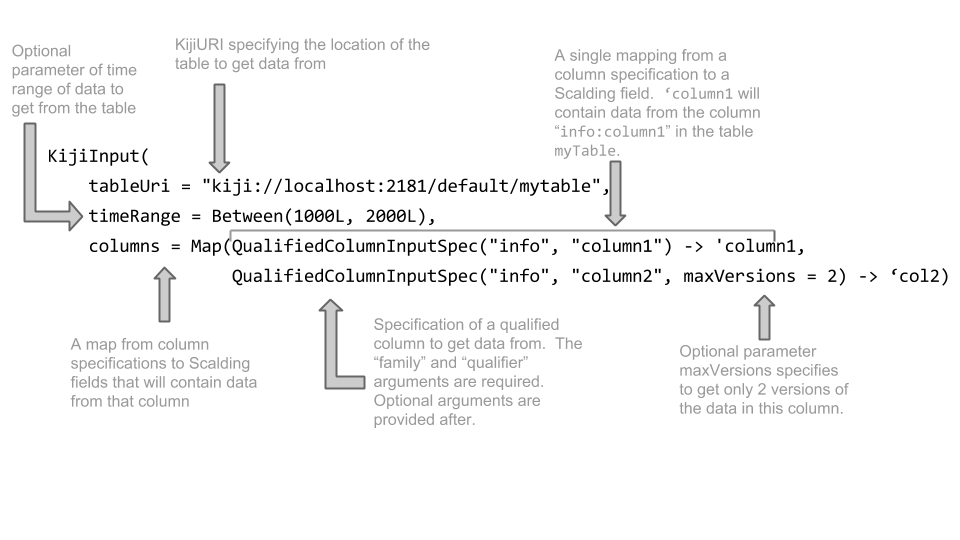
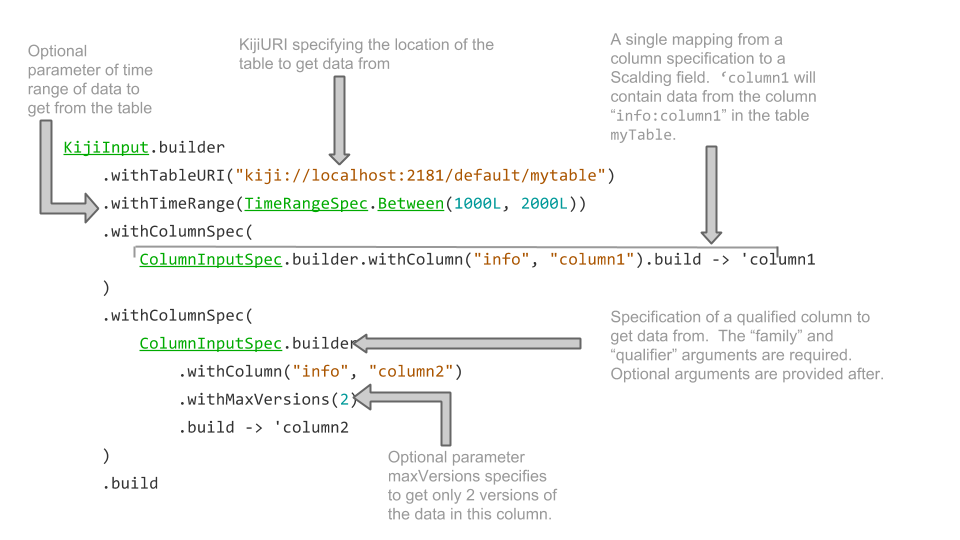
EXP-402. Update user guide and tutorial to reflect Builder APIs.
issue: https://jira.kiji.org/browse/EXP-402
review: https://review.kiji.org/r/1568
commit: https://github.com/kijiproject/kijiproject.github.com/commit/97b3bb55221034efbc58e38f614e003e16d13a4c

Changed region(s): [[0.0, 0.0593, 0.9375, 0.9778], [0.0938, 0.8889, 0.1875, 0.9185], [0.9375, 0.5037, 1.0, 0.5333]]

diff --git a/kijiproject.github.com/_posts/userguides/express/DEVEL/2013-11-14-kiji-sources.md b/kijiproject.github.com/_posts/userguides/express/DEVEL/2013-11-14-kiji-sources.md
@@ -18,7 +18,6 @@ Contents:
 * [KijiInput](#kijiinput) is for reading from a Kiji table.
 * [KijiOutput](#kijioutput) is for writing to a Kiji table.
 * [HFileKijiOutput](#hfilekijioutput) is for writing to HFiles that will be bulk-loaded into Kiji.
-  It must be used in conjunction with `HFileKijiJob` instead of `KijiJob`.
 
 ## KijiInput
 
@@ -67,7 +66,7 @@ post](http://www.kiji.org/2013/02/13/common-pitfalls-of-timestamps-in-hbase/).
 You can specify an optional time range, or range of versions, on a **KijiInput**.  (Note that the
 time range is applied to the entire input request and not a single column. You can further control
 how many versions of an individual column are returned by using `maxVersions` described further
-ahead.).  This time range that limits the data returned from all the columns you request to that
+ahead.).  This time range limits the data returned from all the columns you request to that
 time range.  The default time range is `All`, which imposes no limits on the data from the columns
 of the table.
 
@@ -81,16 +80,24 @@ Here are the provided constructors for a TimeRange:
 The time range is an optional parameter to KijiInput, so your construction will look something like
 what follows:
 
-    KijiInput(tableUri = “kiji://localhost:2181/default/users”,
-        timeRange =Before(1000L),
-        Map(
-            QualifiedColumnInputSpec(“userinfo:email”, maxVersions = 2) -> ‘email,
-            ColumnFamilyInputSpec(“purchases”, maxVersions = all) -> ‘purchases))
+    KijiInput.builder
+        .withTableURI("kiji://localhost:2181/default/users")
+        .withTimeRange(Before(1000L))
+        .withColumnSpecs(
+            QualifiedColumnInputSpec.builder
+                .withColumn("userinfo", "email")
+                .withMaxVersions(2)
+                .build-> 'email,
+            ColumnFamilyInputSpec.builder
+                .withFamily("purchases")
+                .withMaxVersions(all)
+                .build-> 'purchases)
+        .build
 
 Note that this means the `’email` field will contain only the data in the `userinfo:email` column
 that has version numbers before 1000L.  Since we only requested a maximum of 2 versions of that column,
 this means we get the most recent 2 versions of the user’s email before version 1000, even if there are
-more after version 1000.  This also means the `’purchases` field contains all the purchases that fall
+more after version 1000.  This also means the `'purchases` field contains all the purchases that fall
 within the specified `timeRange` for this `KijiInput`, not all purchases that are in the users
 table.
 
@@ -100,10 +107,12 @@ table.
 constructor function. This map defines the Kiji columns that will be read into specific fields of
 the flow.
 
-The simplest KijiInput syntax looks like this:
+An exmaple KijiInput syntax looks like this:
 
-    KijiInput(tableUri = "kiji://localhost:2181/default/users",
-        "info:name" -> 'name, "purchases" -> 'purchases)
+    KijiInput.builder
+        .withTableURI("kiji://localhost:2181/default/users")
+        .withColumns("info:name" -> 'name, "purchases" -> 'purchases)
+        .build
 
 This constructs a KijiInput that reads from the specified table, the specified columns "info:name"
 and "purchases" and puts the contents of those columns into the fields `'name` and `'purchases`
@@ -112,9 +121,16 @@ respectively.
 However, to specify further options on the columns that you request data from, you must use the
 following syntax:
 
-    KijiInput(tableUri = "kiji://localhost:2181/default/users",
-        Map(QualifiedColumnInputSpec("info", "name") -> 'name,
-            ColumnFamilyInputSpec("purchases") -> 'purchases))
+    KijiInput.builder
+        .withTableURI("kiji://localhost:2181/default/users")
+        .withColumnSpecs(
+            QualifiedColumnInputSpec.builder
+                .withColumn("info", "name")
+                .build -> 'name,
+            ColumnFamilyInputSpec.builder
+                .withFamily("purchases")
+                .build -> 'purchases)
+        .build
 
 `QualifiedColumnInputSpec` is used to specify a single Kiji column should
 be read into a single field in each tuple.  `ColumnFamilyInputSpec` is used to specify an entire
@@ -127,8 +143,8 @@ filters, paging, and schema.
 #### maxVersions
 
     import org.kiji.express.flow
-    maxVersions = 2
-    maxVersions = all
+    builder.withMaxVersions(2)
+    otherBuilder.withMaxVersions(all)
 
 `maxVersions` is an Integer specifying the number of versions of this column to be in the tuple.  By
   default, this is 1, so you will only get the latest version within the time range of the entire
@@ -136,7 +152,7 @@ KijiInput request.
 
 #### schemaSpec
 
-This specifies the Avro schema to read the data in this column with.  For more information about Avro schemas, see the [KijiSchema userguide]({{site.userguide_schema_devel}}/managing-data) section on Schema evolution.
+This specifies the Avro schema with which to read the data in this column.  For more information about Avro schemas, see the [KijiSchema userguide]({{site.userguide_schema_devel}}/managing-data) section on Schema evolution.
 Here are the options:
 
 * `SchemaSpec.Specific(classOf[MySpecificRecordClass])`: used when you have a specific class
@@ -176,7 +192,7 @@ minimumIncluded = true)` to specify columns with qualifiers “m” and later.
 
 ##### paging
 
-    paging = PagingSpec.Cells(10)
+    builder.withPagingSpec(PagingSpec.Cells(10))
 
 Specifies the number of cells per page.  By default, `paging = PagingSpec.Off`, which disables
 paging.  With paging disabled, all cells from the specified column will be loaded into memory at
@@ -263,10 +279,12 @@ In this simplest case, this may be specified as a mapping from the field name in
 fully qualified column name of the table.
 
 {% highlight scala %}
-   KijiOutput(
-       tableUri = "kiji://localhost:2181/default/mytable",
-       'column1 -> "info:column1",
-       'column2 -> "info:column2")
+    KijiOutput.builder
+        .withTableURI("kiji://localhost:2181/default/mytable")
+        .withColumns(
+            'column1 -> "info:column1",
+            'column2 -> "info:column2"
+        ).build
 {% endhighlight %}
 
 As with KijiInput, we have provided syntactic sugar for the most common case of writing a field to a
@@ -310,7 +328,6 @@ The SchemaSpec is specified in much that same way as for KijiInput, which is des
 The `HFileKijiSource` is a special write-only source that allows for the contents of a pipe to be
 written to HFiles for later bulk loading into HBase. From an API perspective, writing a Scalding job
 that writes to HFiles is as simple as:
-* Extending `HFileKijiJob` instead of `KijiJob`.
 * Writing to `HFileKijiOutput` instead of `KijiOutput`.  They are the same except `HFileKijiOutput`
   requires a `hFileOutput` parameter that specifies where the HFiles are output by the job.
 
@@ -319,37 +336,15 @@ that writes to HFiles is as simple as:
          // `'timestamps` field and writing the fields `'column1` and `'column2` to the columns
          // `info:column1` and `info:column2`. The resulting HFiles will be written to the "my_hfiles"
          // folder.
-         HFileKijiOutput(
-            tableUri = "kiji://localhost:2181/default/mytable",
-            hFileOutput = "my_hfiles",
-            timestampField = 'timestamps,
+    HFileKijiOutput.builder
+        .withTableURI("kiji://localhost:2181/default/mytable")
+        .withHFileOutput("my_hfiles")
+        .withTimestampField('timestamps)
+        .withColumns(
             'column1 -> "info:column1",
-            'column2 -> "info:column2")
+            'column2 -> "info:column2"
+        ).build
 {% endhighlight %}
 
-* Specifying `--output` and `--hfile-output` arguments on the command line when running the
-  KijiExpress job. `--output` refers to the Kiji table where the data will eventually be loaded and
-`--hfile-output` refers to the location on HDFS where the HFiles to be loaded are written.
-
-Please note; however, that due to the limitations around this implementation of writing to HFiles,
-that only one Scalding pipe can write to an `HFileKijiSource`.
-
-### Implementation Notes
-Please note that unlike other KijiExpress jobs that extend from `KijiJob`, when generating HFiles,
-your job must extend `HFileKijiJob` *and* only one pipe can write to an `HFileKijiOutput`. The
-reasons for these limitations are as follows:
-
-* When writing to HFiles, normally the `IdentityReducer` is used along with the
-  `TotalOrderPartitioner` so that keys emitted from the Map phase are shuffled properly to the right
-  reducer. There are as many reducers as HBase regions so as to make the bulk load efficient.
-* Since Scalding compiles down to (possibly multple) Map-Reduce jobs, it's possible that the flow
-  contains a reducer operation already (if there is a .groupBy being done for example) *or* the flow
-  is purely map-only. In the latter, it's easy to reconfigure the final Map-Reduce job to use the
-  `TotalOrderPartitioner` and force the reduce phase with the `IdentityReducer` to generate the right
-  set of HFiles. In the former; however, to risk not messing up any optimizations in the existing
-  Cascading partitioner + reducers, the output from the reducers are routed to a temporary location on
-  HDFS and another Map-Reduce job takes those files and properly shuffles the data so that it can be
-  bulk loaded. Due to The possibility of this secondary Map-Reduce job to doing the proper shuffling
-  of the intermediate output is why only one pipe can write to an `HFileKijiOutput` else it becomes
-  ambiguous what data goes where.
+HFiles written this way will be placed in a directory called hfiles under the specified HFileOutput directory.
 

diff --git a/kijiproject.github.com/_posts/userguides/express/DEVEL/2012-01-01-overview.md b/kijiproject.github.com/_posts/userguides/express/DEVEL/2012-01-01-overview.md
@@ -53,58 +53,3 @@ run KijiExpress jobs]({{site.userguide_express_devel}}/running-jobs).
   create Kiji tables.
 * [The KijiExpress tutorial]({{site.tutorial_express_devel}}/express-overview) is a good
   introduction and demonstration of KijiExpress.
-
-## KijiModeling
-
-One benefit of KijiExpress is that a model implemented in KijiExpress will be
-deployable in a production enterprise software environment without needing to
-be redeveloped in Java.
-
-A separate project, the KijiModeling project, is the framework for writing and
-deploying models using KijiExpress.  The project is currently under development
-[here](https://github.com/kijiproject/kiji-modeling).
-
-Combined with KijiScoring, models developed in KijiModeling can return results
-in the time frames demanded of user interactions in the web. The model
-lifecycle allows you to manage all of the phases of generating and maintaining
-models and data to support an application using machine learning to produce
-better results.
-
-## KijiModeling Roadmap Overview
-
-More documentation on KijiModeling will be available as it stabilizes.
-
->Note that not all of KijiModeling functionality is implemented at this time.
->This Roadmap outlines the planned total functionality.
-
-KijiModeling is an evolving project to provide a development environment for generating,
-training, and verifying predictive models and to support data operations that allow real-time
-application of the model to be as efficient as possible. The planned functionality of
-KijiModeling will roll out over time. These plans include support for a model lifecycle:
-
-* **Preparation.**  KijiExpress model lifecycle includes the opportunity to execute offline
-computations so results can be used when extracting features in real time. In production,
-the prepare phase might be executed in batch on a periodic basis, to ensure its results
-are up-to-date when extracting features.
-
-* **Data Extraction.**  The extract phase transforms entity-centric raw data from the data
-store about an entity into the features for that entity used by other model lifecycle phases.
-
-* **Scoring.**  The score phase defines how an entity's data is combined with a trained
-model to produce a score.
-
-* **Training.**  The train phase executes offline procedures that generate data required
-to score using the model. Training accepts features extracted for a subset of entities
-(a training set) and uses them with the model and entity data to produce entity-specific
-results.
-
-* **Evaluation.**  After defining how a model is trained and used to score, it is necessary
-to evaluate these procedures for accuracy. Often, this involves scoring against a subset
-of entities different from the training set and evaluating the scores produced against
-some known ground-truth.
-
-
-These high-level modeling stages rely on data transformations and flow, from importing
-data into Kiji tables from HDFS or other sources, to reading data from Kiji tables, to
-performing operations on the data, to writing data out to Kiji tables.
-

diff --git a/kijiproject.github.com/_posts/tutorials/express-recommendation/DEVEL/2012-01-01-express-recommendations.md b/kijiproject.github.com/_posts/tutorials/express-recommendation/DEVEL/2012-01-01-express-recommendations.md
@@ -81,9 +81,13 @@ Next, we construct a pipe does the following:
 The code follows:
 
 {% highlight scala %}
-  val recommendedSong = KijiInput(args("songs-table"),
-      Map(QualifiedColumnInputSpec("info", "top_next_songs", classOf[TopSongs])
-          -> 'topNextSongs))
+  val recommendedSong = KijiInput.builder
+      .withTableURI(args("songs-table"))
+      .withColumnSpecs(QualifiedColumnInputSpec.builder
+          .withColumn("info", "top_next_songs")
+          .withSchemaSpec(SchemaSpec.Specific(classOf[TopSongs]))
+          .build -> 'topNextSongs)
+      .build
       .map('entityId -> 'songId) { eId: EntityId => eId(0) }
       .map('topNextSongs -> 'nextSong) { getMostPopularSong }
       .project('songId, 'nextSong)
@@ -100,13 +104,17 @@ Finally we create a flow that does the following:
   `'nextSong` fields for the most popular top songs.
 
 {% highlight scala %}
-  KijiInput(args("users-table"),
-      Map(QualifiedColumnInputSpec("info", "track_plays") -> 'trackPlays))
+  KijiInput.builder
+      .withTableURI(args("users-table"))
+      .withColumns("info:track_plays" -> 'trackPlays)
+      .build
       .map('trackPlays -> 'lastTrackPlayed) {
           slice: Seq[FlowCell[CharSequence]] => slice.head.datum.toString }
       .joinWithSmaller('lastTrackPlayed -> 'songId, recommendedSong)
-      .write(KijiOutput(args("users-table"),
-          Map('nextSong -> QualifiedColumnOutputSpec("info", "next_song_rec"))))
+      .write(KijiOutput.builder
+          .withTableURI(args("users-table"))
+          .withColumns('nextSong -> "info:next_song_rec")
+          .build
 {% endhighlight %}
 
 ### Running the Example

diff --git a/kijiproject.github.com/_posts/tutorials/express-recommendation/DEVEL/2012-01-01-express-top-next-song.md b/kijiproject.github.com/_posts/tutorials/express-recommendation/DEVEL/2012-01-01-express-top-next-song.md
@@ -31,8 +31,13 @@ into the field `‘playlist`.  Recall that the “info:track_plays” column con
 user row, each track played by that user, at the timestamp it was played.
 
 {% highlight scala %}
- KijiInput(args("users-table"),
-      Map(QualifiedColumnInputSpec("info", "track_plays", all) -> 'playlist))
+  KijiInput.builder
+      .withTableURI(args("user-table"))
+      .withColumnsSpecs(QualifiedColumnInputSpec.builder
+          .withColumn("info", "track_plays")
+          .withMaxVersions(all)
+          .build -> 'play
+      ).build
 {% endhighlight %}
 
 #### Transform songs histories into bigrams of songs
@@ -163,11 +168,13 @@ Finally, we create entity IDs using the `first_song` field and put it in the `en
 
 {% highlight scala %}
     .map('first_song -> 'entityId) { first_song: String => EntityId(first_song) }
-    .write(KijiOutput(args("songs-table"),
-        Map('top_next_songs -> QualifiedColumnOutputSpec(
-            "info",
-            "top_next_songs",
-            schemaSpec = SchemaSpec.Specific(classOf[TopSongs])))))
+    .write(KijiOutput.builder
+        .withTableURI(args("songs-table"))
+        .withColumnSpecs('top_next_songs -> QualifiedColumnOutputSpec.builder
+            .withColumn("info", "top_next_songs")
+            .withSchemaSpec(SchemaSpec.Specific(classOf[TopSongs]))
+            .build)
+        .build
 {% endhighlight %}
 
 ### Running TopNextSongs ###

diff --git a/kijiproject.github.com/_posts/tutorials/express-recommendation/DEVEL/2012-01-01-express-play-count.md b/kijiproject.github.com/_posts/tutorials/express-recommendation/DEVEL/2012-01-01-express-play-count.md
@@ -44,8 +44,15 @@ For the tutorial, we call `KijiInput` to read all versions of the column "info:t
 provided Kiji table and bind the resulting value to the field named `'playlist`:
 
 {% highlight scala %}
-  KijiInput(args("table-uri"),
-      Map(QualifiedColumnInputSpec("info", "track_plays", maxVersions = all) -> 'playlist))
+  KijiInput.builder
+      .withTableURI(args("table-uri"))
+      .withColumnSpecs(
+          QualifiedColumnInputSpec.builder
+              .withColumn("info", "track_plays")
+              .withMaxVersions(all)
+              .build -> 'playlist
+          )
+      .build
 {% endhighlight %}
 
 Note the reference here to `args("table-uri")`, which evaluates to the value of the job-specific

diff --git a/kijiproject.github.com/_posts/tutorials/express-recommendation/DEVEL/2012-01-01-express-importing-data.md b/kijiproject.github.com/_posts/tutorials/express-recommendation/DEVEL/2012-01-01-express-importing-data.md
@@ -112,7 +112,8 @@ Now that you've imported your data, we are ready to start analyzing it!  The sou
 song metadata importer is included below in case you are curious.  We will go over the syntax of
 writing your own jobs in more detail in following sections.
 
-### <a id="importer-source">(Optional) Source Code for Scalding Importer</a>
+<a id="importer-source"></a>
+### (Optional) Source Code for Scalding Importer
 
 The data is formatted with a JSON record on each line. Each record corresponds to a song, and
 provides the following metadata for the song:
